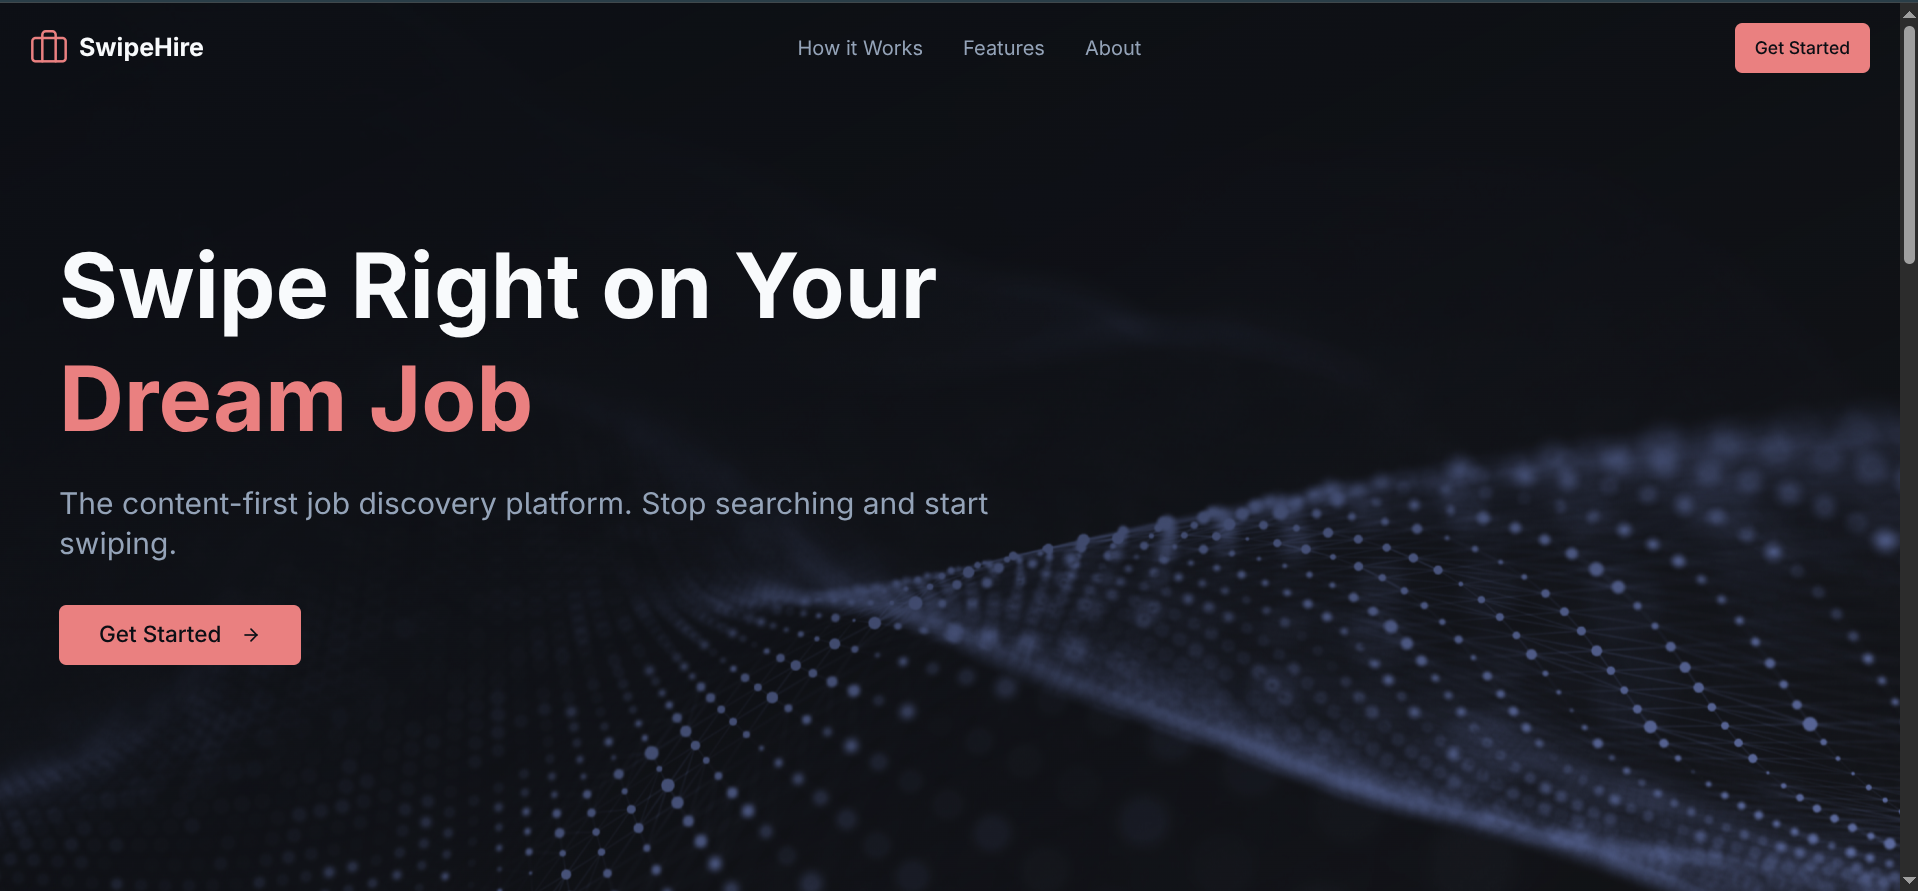
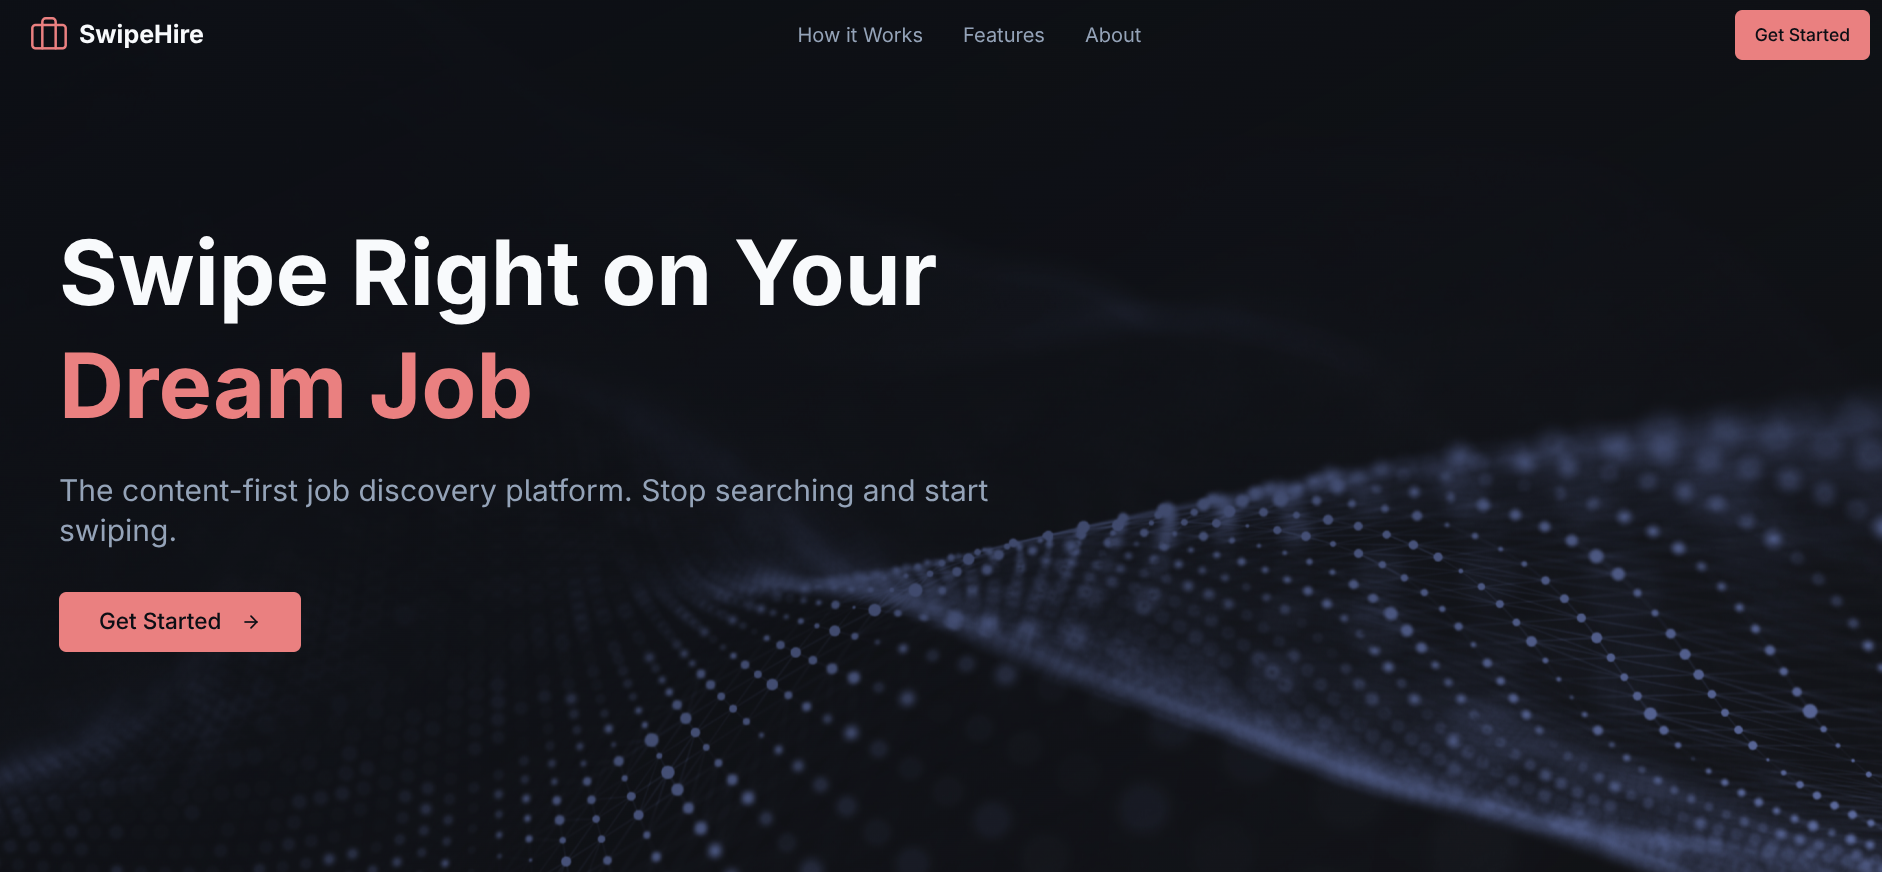
Update portfolio statistics and information

diff --git a/src/data/mock.js b/src/data/mock.js
@@ -315,7 +315,7 @@ export const cpStats = [
   {
     value: 300,
     suffix: "+",
-    label: "LeetCode Problems",
+    label: "CP Problems",
     handle: "@WhileTrueSatty",
     url: "https://leetcode.com/u/WhileTrueSatty/",
   },
@@ -327,10 +327,10 @@ export const cpStats = [
     url: "https://codeforces.com/profile/Satty80085",
   },
   {
-    value: 51,
-    suffix: "",
-    label: "Deep-ML Solves",
-    handle: "@F7UE7evml",
+    value: 50,
+    suffix: "+",
+    label: "Deep-ML Problems",
+    handle: "@Satyam Ashtikar",
     url: "https://www.deep-ml.com/profile/F7UE7evmlJfuJ2ujaFYZgZI5PAJ2",
   },
   {

diff --git a/src/components/About.jsx b/src/components/About.jsx
@@ -8,7 +8,7 @@ const liveStats = [
   { value: "15+", label: "Projects Shipped", icon: "⬡" },
   { value: "300+", label: "CP Problems Solved", icon: "⬡" },
   { value: "02", label: "Internships", icon: "⬡" },
-  { value: "8+", label: "Certifies Courses", icon: "⬡" },
+  { value: "8+", label: "Certified Courses", icon: "⬡" },
   { value: "3+", label: "Hackathons Won", icon: "⬡" },
   { value: "1220", label: "CF Rating (Pupil)", icon: "⬡" },
 ];